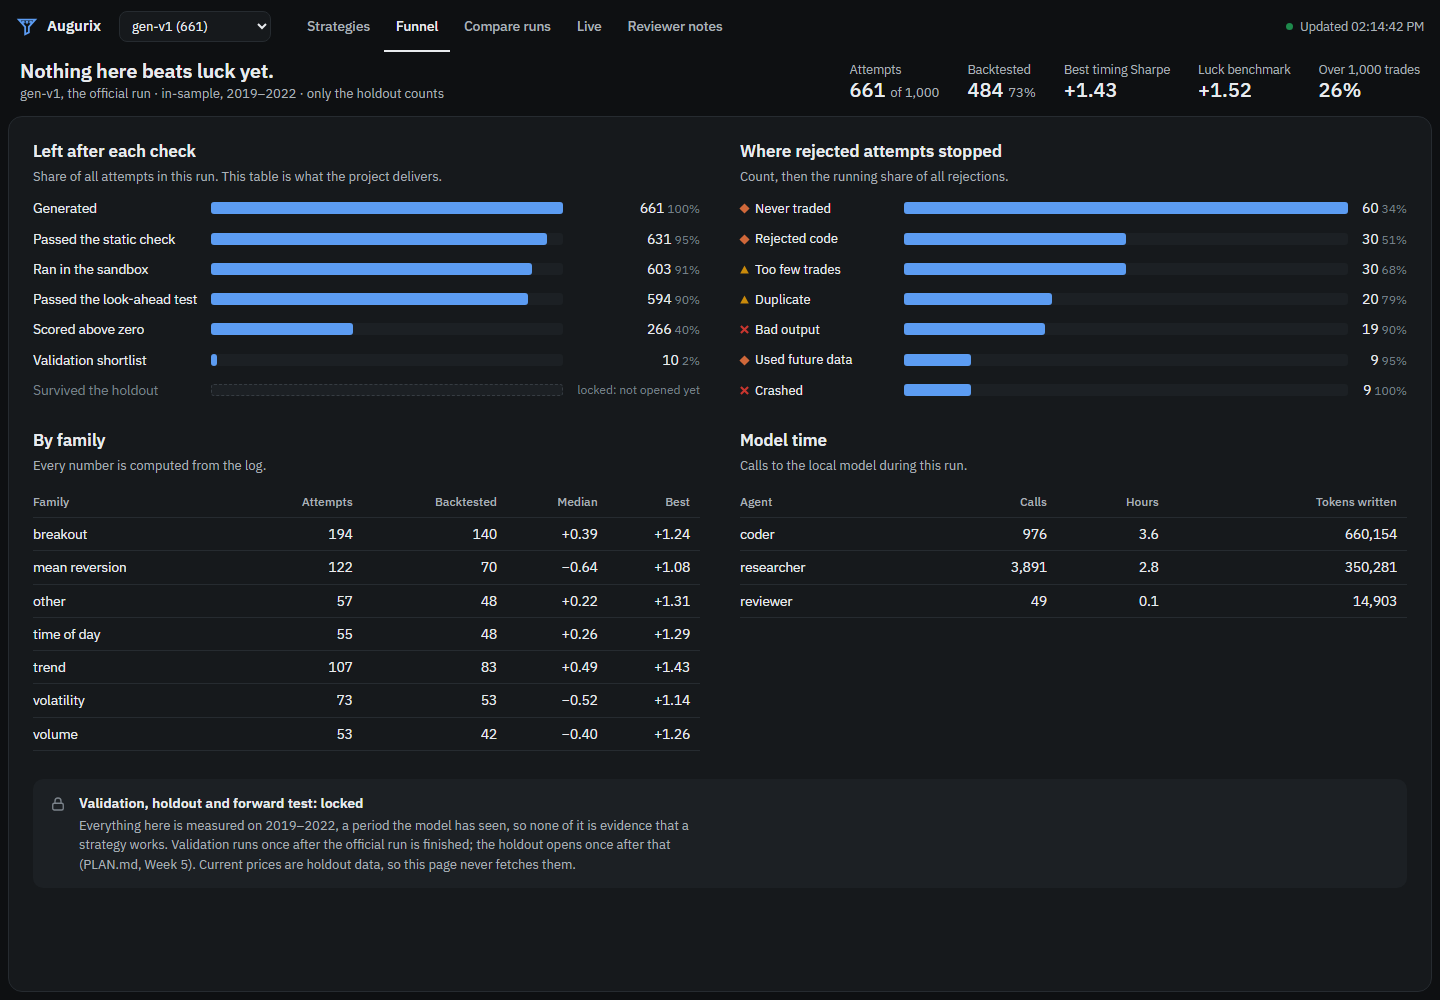
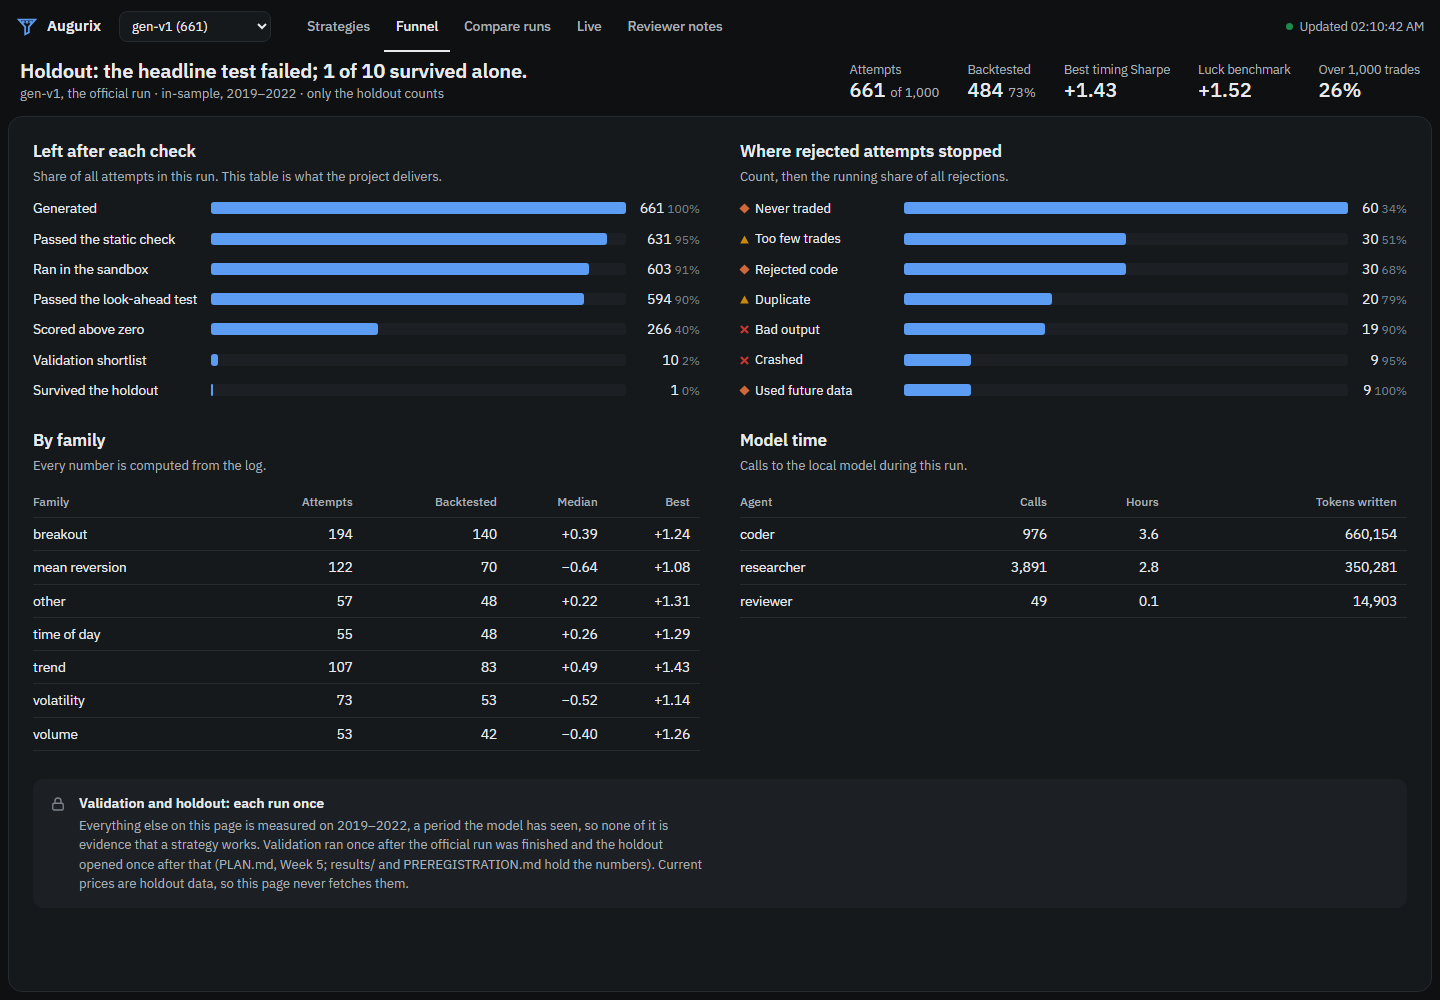
Open the holdout once: headline test failed, 1 of 10 survived alone
open_holdout.py --run gen-v1 ran once on 2026-11-22. The equal-weight
portfolio of the shortlist had a holdout timing Sharpe of +0.47 (PSR 0.73,
needed 0.95). #4323, a volatility breakout, passed the Bonferroni bar with
PSR 0.9964. Results are in results/, recorded in PLAN.md and the README.

The dashboard broke once results/HOLDOUT_OPENED.json existed: Windows globs
ignore case, so holdout_*.json matched the lock file. Fixed, with a test.

diff --git a/dashboard.html b/dashboard.html
@@ -325,8 +325,8 @@ svg .lab { fill: var(--ink2); }
       </div>
       <div class="lock">
         <svg viewBox="0 0 24 24" fill="none" stroke="currentColor" stroke-width="1.8" aria-hidden="true"><rect x="5" y="11" width="14" height="9" rx="2"/><path d="M8 11V8a4 4 0 0 1 8 0v3"/></svg>
-        <div><h3>Validation, holdout and forward test: locked</h3>
-          <p>Everything here is measured on 2019–2022, a period the model has seen, so none of it is evidence that a strategy works. Validation runs once after the official run is finished; the holdout opens once after that (PLAN.md, Week 5). Current prices are holdout data, so this page never fetches them.</p></div>
+        <div><h3>Validation and holdout: each run once</h3>
+          <p>Everything else on this page is measured on 2019–2022, a period the model has seen, so none of it is evidence that a strategy works. Validation ran once after the official run was finished and the holdout opened once after that (PLAN.md, Week 5; results/ and PREREGISTRATION.md hold the numbers). Current prices are holdout data, so this page never fetches them.</p></div>
       </div>
     </section>
 
@@ -512,7 +512,9 @@ function title(d) {
   }
   const n = t.span.scored, best = f.best, luck = t.luck;
   const why = `${run ? run.run_id + (run.pilot ? ", a pilot" : ", the official run") : ""} · in-sample, 2019–2022 · only the holdout counts`;
-  const head = n < 2 || best == null ? "Too few backtests to say anything yet."
+  const ho = d.week5 && d.week5.holdout;  // set once open_holdout.py has run for this run
+  const head = ho ? `Holdout: the headline test ${ho.primary_passed ? "passed" : "failed"}; ${ho.survivors} of ${d.week5.shortlisted} survived alone.`
+             : n < 2 || best == null ? "Too few backtests to say anything yet."
              : best <= luck ? "Nothing here beats luck yet." : "One score is above luck. A reason to validate, not evidence.";
   $("verdict").replaceChildren(head, h("small", {}, why));
   const target = run && !run.pilot ? 1000 : null;

diff --git a/tests/test_dashboard.py b/tests/test_dashboard.py
@@ -27,6 +27,17 @@ def test_state_and_attempt_are_json_safe(tmp_path, monkeypatch):
     assert one["attempt"]["equity"] == [1.0, 1.1] and dashboard.attempt(99) is None
 
 
+def test_week5_reads_the_holdout_result_and_not_the_lock_file(tmp_path, monkeypatch):
+    monkeypatch.setattr(store, "DB", tmp_path / "t.duckdb")
+    monkeypatch.setattr(dashboard, "ROOT", tmp_path)
+    (tmp_path / "results").mkdir()
+    (tmp_path / "results" / "HOLDOUT_OPENED.json").write_text(json.dumps({"run_id": "gen-v1"}))  # no survivors key
+    (tmp_path / "results" / "holdout_gen-v1.json").write_text(json.dumps({"survivors": 1, "primary": {"passed": False}}))
+    for run in (None, "gen-v1"):  # "gen" sorts before "OPENED" case-folded, as in the real results folder
+        assert dashboard.week5(run)["holdout"] == {"survivors": 1, "primary_passed": False}
+    assert dashboard.week5("other")["holdout"] is None
+
+
 def test_near_copies_share_a_group_and_retries_follow_their_idea(tmp_path, monkeypatch):
     monkeypatch.setattr(store, "DB", tmp_path / "t.duckdb")
     rule = "Enter when the close price is above the {w}-hour high and {f}. Exit when the close falls below the 168-hour rolling mean."

diff --git a/dashboard.py b/dashboard.py
@@ -170,7 +170,8 @@ def week5(run=None):
             out["shortlisted"] = rows[0]["n"]
     except duckdb.CatalogException:  # validation has never been run
         pass
-    files = sorted((ROOT / "results").glob(f"holdout_{run or '*'}.json"))
+    # Windows globs ignore case, so "holdout_*" also matches HOLDOUT_OPENED.json, the lock file; keep only result files.
+    files = [f for f in sorted((ROOT / "results").glob(f"holdout_{run or '*'}.json")) if f.name.startswith("holdout_")]
     if files:
         r = json.loads(files[-1].read_text())
         out["holdout"] = {"survivors": r["survivors"], "primary_passed": r["primary"]["passed"]}

diff --git a/PLAN.md b/PLAN.md
@@ -12,7 +12,7 @@ Update this section at the end of every working session.
 - [ ] Week 2 (Nov 23–29): model served, coder agent, sandbox
 - [x] Week 3 (Nov 30–Dec 6): look-ahead detector and planted-cheat suite (done 2026-11-16; Adam still has to learn it)
 - [ ] Week 4 (Dec 7–13): hypothesis agent, log, full loop, overnight run
-- [ ] Week 5 (Dec 14–20): validation, deflated Sharpe, open the holdout once
+- [x] Week 5 (Dec 14–20): validation, deflated Sharpe, open the holdout once (done 2026-11-22: primary test failed, 1 of 10 survived the secondary)
 - [ ] Week 6 (Dec 21–27): README, write-up, bake-off table
 
 Week 1 is functionally complete as of 2026-11-16: `download_data.py`, `make_splits.py`, `backtest.py`, `baselines.py`, 12 tests passing. Data downloaded (see below). Discovery split written: 35,006 bars per symbol in `data/splits/discovery/`. One thing remains before ticking the box: Adam works the toy example by hand and reads `backtest.py` until he can explain every line.
@@ -111,6 +111,7 @@ Next, in order:
   - **`pilot12` failed its pre-set test (2026-11-19), so `gen-v1` is frozen at 661 attempts (N = 534 backtested) and generation is over.** 1.5 hours on `v13` from a pilot copy of `gen-v1`'s 661 attempts, new rows #5208–#5417. Test 1 passed: 210 new attempts on 157 ideas, one skipped turn in the whole run (pilot11: 34), never near the stop rule. Test 3 passed: distinct conditions (`agents._pieces` over accepted ideas, numbers removed) rose from 343 to 391 in the first half and 429 in the second. **Test 2 failed: 22 of 210 never traded, 10.5%, against a limit of 10%**, one attempt over. All 22 are day trades (22 of 125, 18%); long holds had none. The limit was fixed before the run and is not moved after it: an exception by one attempt is the kind of after-the-fact choice the luck bar exists to price. So `v13` fixed what it was built for (stalling and variety) and still failed the bar as written. In-sample, pilot rows, outside N: long holds 85 attempts, median +0.18, best +1.50; day trades 125, median −0.41, best +1.17. For the write-up: the ideation ceiling under the near-copy checks was about 320 ideas, about 660 with seeds, and `v13` removed the stall in a 1.5-hour test; the official funnel is the 661 attempts of `gen-v1` (`v10` and `v12`). Next is Week 5, which starts with `run_validation.py --run gen-v1` once; Adam must first confirm option A or B for the gate.
   - **Validation, pass 1 (2026-11-20 09:32 UTC, Adam: "Run validation", option B as decided 2026-11-17).** N = 534: the deflated-Sharpe trial count is official attempts that produced a backtest, not all 661 attempts. 266 passed the discovery gate and were scored on 2023–2024; none crashed or failed the look-ahead test on the longer data. 13 of 266 (4.9%) were individually significant (PSR against 0 of at least 0.95), against 1.3% of time-shifted copies. 4.9% is what pure chance gives at a 5% level, so the real-versus-null gap is the only hint of anything, and the null is known to be harsh on calendar rules. Luck bar at N = 534: Sharpe 2.17; best validation Sharpe 1.82, every deflated Sharpe 0.09 to 0.28, so **option A would have shortlisted nothing.** The option-B shortlist is 10 strategies (#4461, #4453, #4377, #4311, #4351, #4260, #4504, #4350, #4341, #4323; validation Sharpe 1.25 to 1.82). **They are effectively two rules:** all ten are `v12` day trades in the market 1–4% of the time; seven are a `day_of_week` seed, "Monday close above the 168-hour high (or VWMA band) with a volume or volatility filter, exit after 8–12 hours", and three are short volatility breakouts (`overreaction` seed and one unseeded). No long hold and nothing from `v10` made it. So the equal-weight portfolio in the primary test is mostly one Monday-breakout bet, and the Bonferroni secondary is conservative for such correlated strategies. This is to be reported, not fixed: changing the shortlist rule after seeing which strategies passed would tune on validation. `PREREGISTRATION.md` and `results/validation_gen-v1.json` were written and are not yet committed; next is Adam's go to commit them, tag `prereg-v1`, download the holdout and run `open_holdout.py` once.
   - **Pre-registered and holdout downloaded (2026-11-20, Adam: "Commit and tag", then "Push first, then download").** `PREREGISTRATION.md` and `results/validation_gen-v1.json` committed as 404907c and tagged `prereg-v1` at 09:33:55 UTC. The repo was then pushed with all tags to the private GitHub repo `ALatif11/Augurix`, so GitHub holds an outside timestamp that the tag came before the data. `download_data.py --holdout --end 2026-10` fetched 44 monthly files (2025-01 to 2026-10, both symbols) between 09:35:22 and 09:36:20 UTC; their SHA-256 sums and download times are in `data/manifest.json`. Both symbols now run to 2026-10-31 23:00 (68,605 bars, 20 gaps). Tests: 141 pass with the holdout data on disk. **The only step left is `python open_holdout.py --run gen-v1`, once, ever, on Adam's explicit go.** Not run overnight on purpose: it is the one step that cannot be undone. The scored holdout window is 2025-03-01 to 2026-10-31, about 20 months; 2025-01 and 2025-02 are indicator warm-up only.
+  - **Holdout opened, once (2026-11-22 07:07 UTC, Adam: "do the holdout and any other further steps"). The headline test failed.** Window 2025-03-01 to 2026-10-31 (1.67 years), 10 strategies, all ran cleanly. **Primary:** the equal-weight portfolio's timing Sharpe was +0.47, PSR against 0 of 0.732, short of the pre-registered 0.95: **FAILED.** Reported, not tested: the permutation p-value against 1,000 time-shifted copies was 0.011, and at double the fee the portfolio's timing Sharpe was −0.18. **Secondary:** 1 of 10 survived the Bonferroni bar (PSR ≥ 0.995): #4323, a day-trade volatility breakout from the `overreaction` seed ("the hour's change is more than 3 times the 168-hour standard deviation of changes and the close is above the 168-hour high; exit after 12 hours"), timing Sharpe +1.85, PSR 0.9964, just over the bar. **Final funnel for `gen-v1`:** generated 661 → static check 631 → sandbox 603 → look-ahead 594 → discovery gate 266 → significant on validation 13 → shortlist 10 → holdout survivor 1, with the primary portfolio test failed. Observations after the fact, not claims: the seven Monday breakouts all lost or went flat on the holdout (timing −1.78 to +0.03), while the three short volatility breakouts all made money (#4323 +1.85, #4504 +1.75, #4350 +1.49). Those three are near-copies of one idea, so one survivor is one idea. Its hourly returns have skew 13 and kurtosis 536: being in the market about 4% of the time, a handful of spikes carry the result. It was not tested at double the fee on its own, and the threshold was cleared by 0.0014. The honest summary: a 12B model produced one strategy that passed a pre-registered out-of-sample test by a hair, inside a portfolio test that failed. That is weak evidence, with no case for trading it. The forward test in "After Week 6" is the way to learn more. The results are in `results/holdout_gen-v1.json` and `results/HOLDOUT_OPENED.json`, the log in `runs/holdout_gen-v1.log`. **Week 5 is done: the funnel numbers are final.** Next is Week 6, the README and reproducibility.
 4. Week 5 scripts are written and tested on synthetic data only (134 tests in total, 12 of which need Docker running). They have never touched the real validation bars and must not until the official run is frozen. See "Week 5" for the exact sequence.
 
 Baselines on discovery (2019–2022, BTC and ETH equal weight, 10 bp fee). In-sample numbers from a period everyone knows; not evidence of anything except that the judge behaves sensibly.

diff --git a/README.md b/README.md
@@ -4,9 +4,30 @@ A local AI proposes trading strategies and writes them as code. Plain Python dec
 
 Most "AI trading" projects show a good backtest. This one is built to find out whether a good backtest means anything. A language model running on one consumer GPU generates hundreds of strategies for Bitcoin and Ethereum; each one is sandboxed, checked for cheating, scored after fees, and corrected for the number of ideas tried. The deliverable is a **survival funnel**: how many strategies were generated, and how many survived each check, ending with one test on market data the model could not have seen. Zero survivors is an acceptable result.
 
-> **Status (2026-11-20):** the official run (`gen-v1`, 661 attempts) is finished and frozen. Validation has run once and shortlisted 10 strategies, and the holdout test is pre-registered and tagged `prereg-v1`. The one-shot holdout test has not been opened yet, so there is no headline result. Every number below is in-sample and is not evidence that any strategy works.
+> **Status (2026-11-22):** done. The official run, the single validation pass and the one-shot holdout test have all happened. **The pre-registered headline test failed;** one of ten shortlisted strategies passed its own stricter test, by a hair. Details below.
 
 ![The Strategies view of the dashboard on the official run](docs/screenshots/strategies.png)
+
+## Result
+
+The survival funnel of the official run `gen-v1`, as pre-registered in [`PREREGISTRATION.md`](PREREGISTRATION.md) (tag `prereg-v1`, pushed before any holdout data was downloaded):
+
+| Stage | Left |
+|---|---|
+| Generated | 661 |
+| Passed the static check | 631 |
+| Ran in the sandbox | 603 |
+| Passed the look-ahead test | 594 |
+| Timing Sharpe above 0 on discovery (2019–2022) | 266 |
+| Individually significant on validation (2023–2024) | 13 |
+| Shortlisted (top 10) | 10 |
+| **Survived the holdout (Mar 2025 – Oct 2026)** | **1** |
+
+- **Headline test, failed.** The equal-weight portfolio of the ten had a holdout timing Sharpe of +0.47, with a probabilistic Sharpe ratio of 0.73 against the 0.95 required. At double the fee it was −0.18.
+- **Per-strategy test, one survivor.** #4323, a day-trade volatility breakout: buy when an hour's move exceeds three times the past week's typical move and the price is above the week's high, and sell 12 hours later. It scored a holdout timing Sharpe of +1.85, with a probabilistic Sharpe ratio of 0.9964 against a Bonferroni bar of 0.995. It is in the market about 4% of the time, and a few large moves carry the result.
+- **No deflated Sharpe on the validation shortlist passed:** the best was 0.28, against a luck bar of 2.17 for 534 trials.
+
+Read plainly: a 12B model running on one GPU produced one strategy that just cleared a pre-registered test on data it could not have seen, inside a portfolio test that failed. That is weak evidence. It is not a reason to trade. Seven of the ten shortlisted strategies were one "Monday breakout" idea, and all seven lost or went flat on the holdout. That pattern was noticed after the fact and is not itself a finding.
 
 ## How it works
 
@@ -37,7 +58,7 @@ All three agents are one local model (Gemma 4 12B, 4-bit, served by llama.cpp) w
 | Moving the goalposts after seeing results | `PREREGISTRATION.md` fixes the shortlist, the test and the thresholds, and is committed and tagged before the holdout data exists. `open_holdout.py` runs once, refuses if any judge file changed since the tag, and records that it ran before computing anything. |
 | Generated code harming the machine | It runs only in the locked-down container. |
 
-## What the pilots found so far
+## What the pilots found
 
 In-sample, on discovery data only:
 
